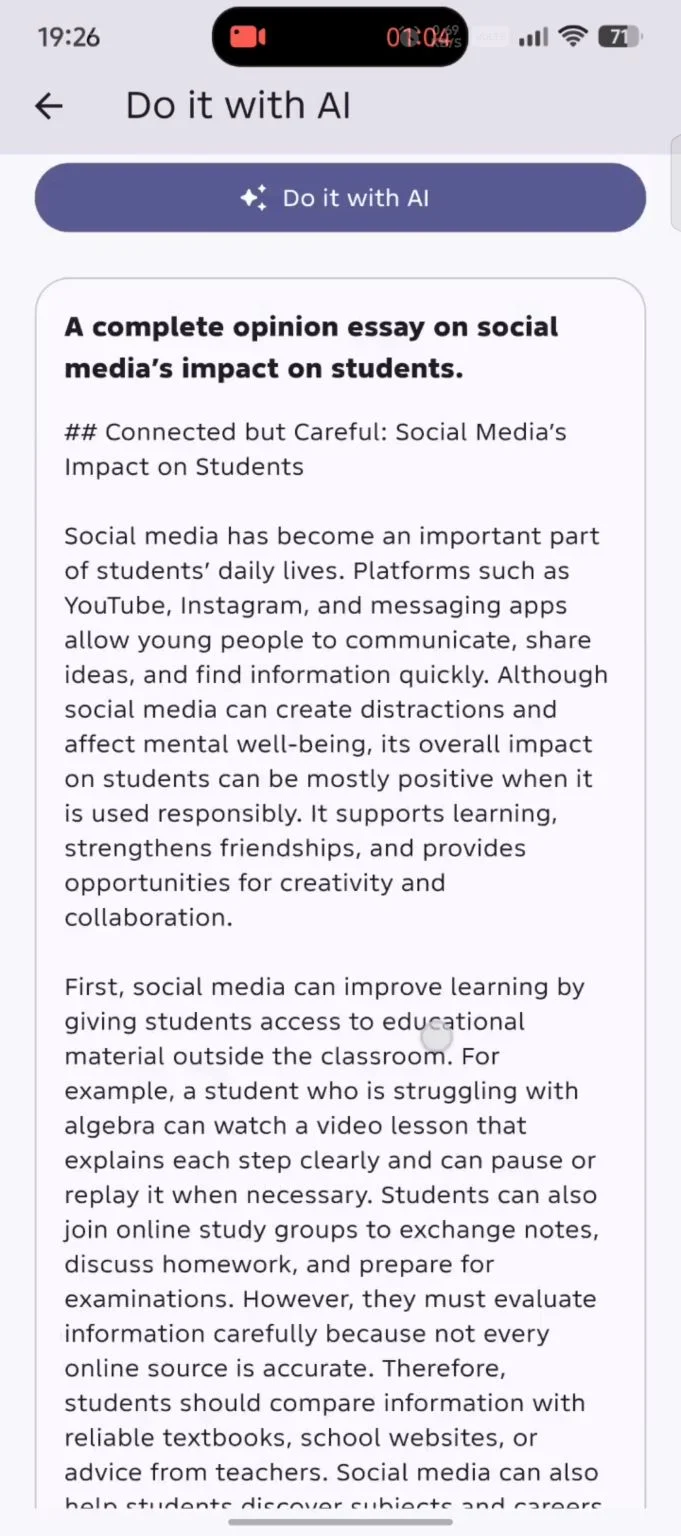
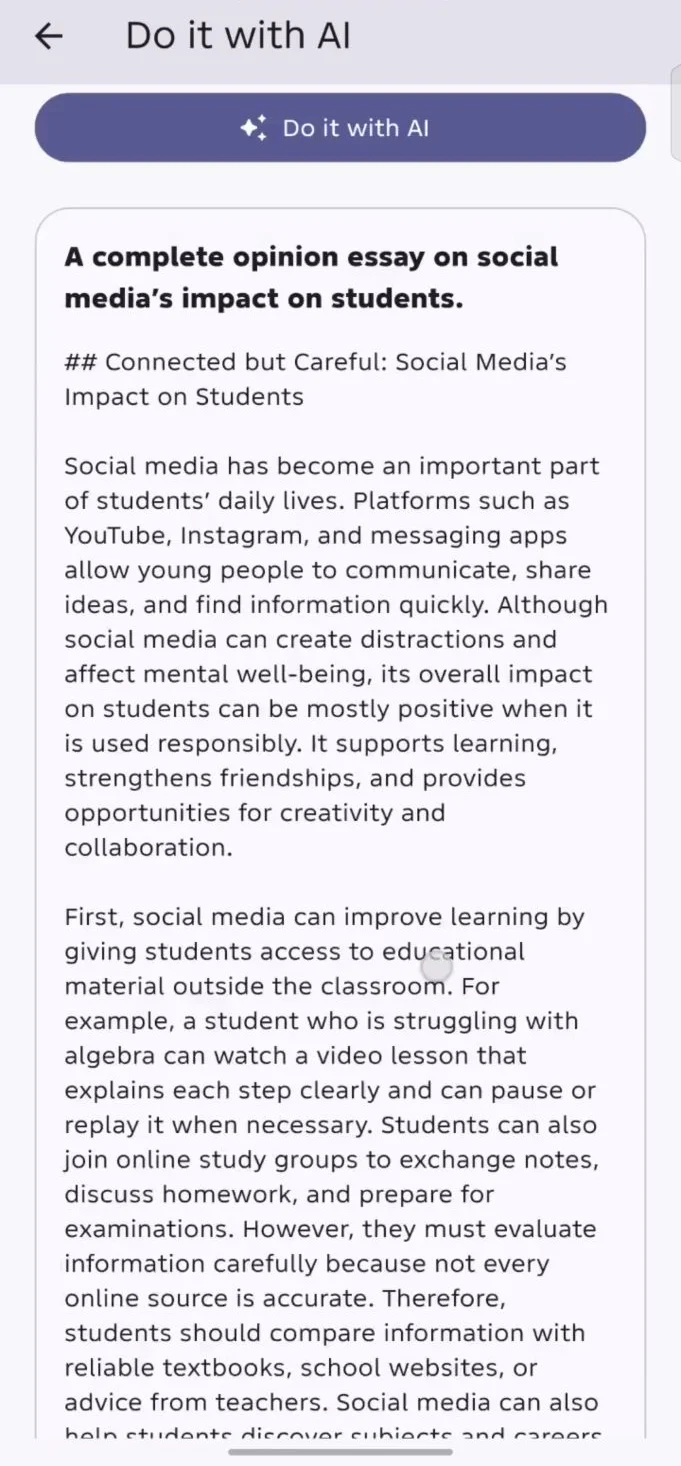
Crop recording indicators from AI screenshots

Changed region(s): [[0.0308, 0.0, 0.9559, 0.9823], [0.7709, 0.0, 0.9559, 0.0307], [0.0617, 0.0, 0.1542, 0.0307]]

diff --git a/index.html b/index.html
@@ -121,15 +121,15 @@
         <article class="ai-execution-feature reveal" id="ai-completion">
           <div class="ai-screen-gallery" aria-label="Do it with AI workflow in the Atav Tasks Android MVP">
             <figure class="ai-screen-card">
-              <img src="assets/screens/ai-task-review.webp" alt="Atav Tasks reviewing an extracted essay assignment before task creation" width="681" height="1536" loading="lazy">
+              <img src="assets/screens/ai-task-review.webp" alt="Atav Tasks reviewing an extracted essay assignment before task creation" width="681" height="1466" loading="lazy">
               <figcaption><span>01</span> Find and review</figcaption>
             </figure>
             <figure class="ai-screen-card ai-screen-card-featured">
-              <img src="assets/screens/do-it-with-ai.webp" alt="Do it with AI screen with context and file attachment options" width="681" height="1536" loading="lazy">
+              <img src="assets/screens/do-it-with-ai.webp" alt="Do it with AI screen with context and file attachment options" width="681" height="1466" loading="lazy">
               <figcaption><span>02</span> Add context</figcaption>
             </figure>
             <figure class="ai-screen-card">
-              <img src="assets/screens/ai-completed-essay.webp" alt="Completed opinion essay generated inside Atav Tasks" width="681" height="1536" loading="lazy">
+              <img src="assets/screens/ai-completed-essay.webp" alt="Completed opinion essay generated inside Atav Tasks" width="681" height="1466" loading="lazy">
               <figcaption><span>03</span> Get a usable result</figcaption>
             </figure>
           </div>
